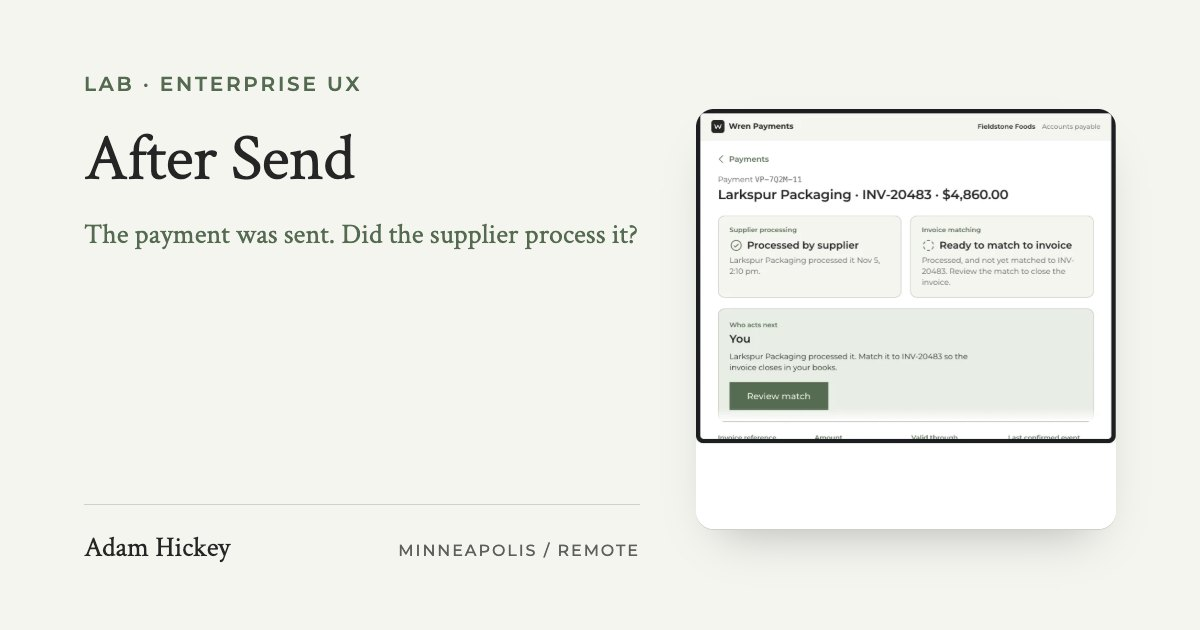
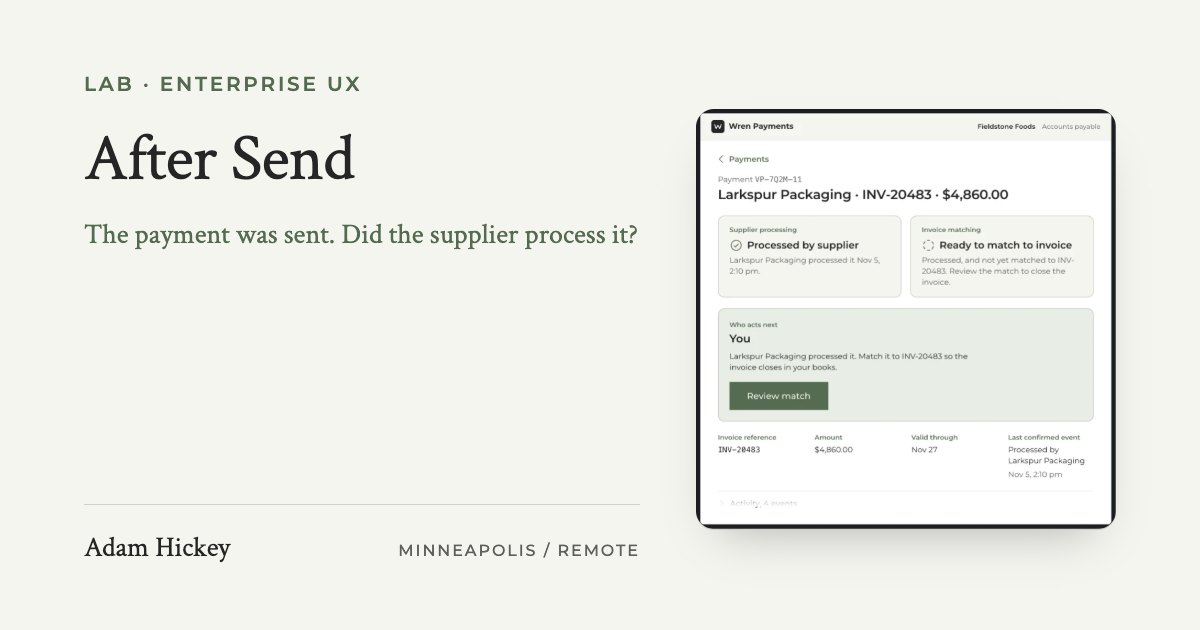
After Send: the share card's window fills its square (#1064)
The page's window has been shorter than the card's square since it took one
fixed ratio (#1057), so the crop left a white foot on the card. The capture
now holds the window square, and keeps the sticky guide out of the picture.

Changed region(s): [[0.555, 0.6937, 0.9558, 0.8143], [0.5858, 0.8143, 0.925, 0.8444]]

diff --git a/lab/after-send.html b/lab/after-send.html
@@ -19,7 +19,7 @@
   <meta property="og:url" content="https://adamhickey.com/lab/after-send.html" />
   <meta property="og:title" content="Tracking a Virtual Payment: an Accounts Payable Concept | Adam Hickey" />
   <meta property="og:description" content="A simulated payments concept, not affiliated with any bank: an accounts payable specialist asks whether a supplier processed a virtual payment, and who acts next." />
-  <meta property="og:image" content="https://adamhickey.com/img/og/after-send.jpg?v=3" />
+  <meta property="og:image" content="https://adamhickey.com/img/og/after-send.jpg?v=4" />
   <meta property="og:image:width" content="1200" />
   <meta property="og:image:height" content="630" />
   <meta name="twitter:card" content="summary_large_image" />
@@ -40,7 +40,7 @@
           "description": "A simulated payments concept, not affiliated with any bank: an accounts payable specialist asks whether a supplier processed a virtual payment, and who acts next.",
           "url": "https://adamhickey.com/lab/after-send.html",
           "mainEntityOfPage": "https://adamhickey.com/lab/after-send.html",
-          "image": "https://adamhickey.com/img/og/after-send.jpg?v=3",
+          "image": "https://adamhickey.com/img/og/after-send.jpg?v=4",
           "datePublished": "2026-11-06",
           "dateModified": "2026-11-06",
           "author": {
